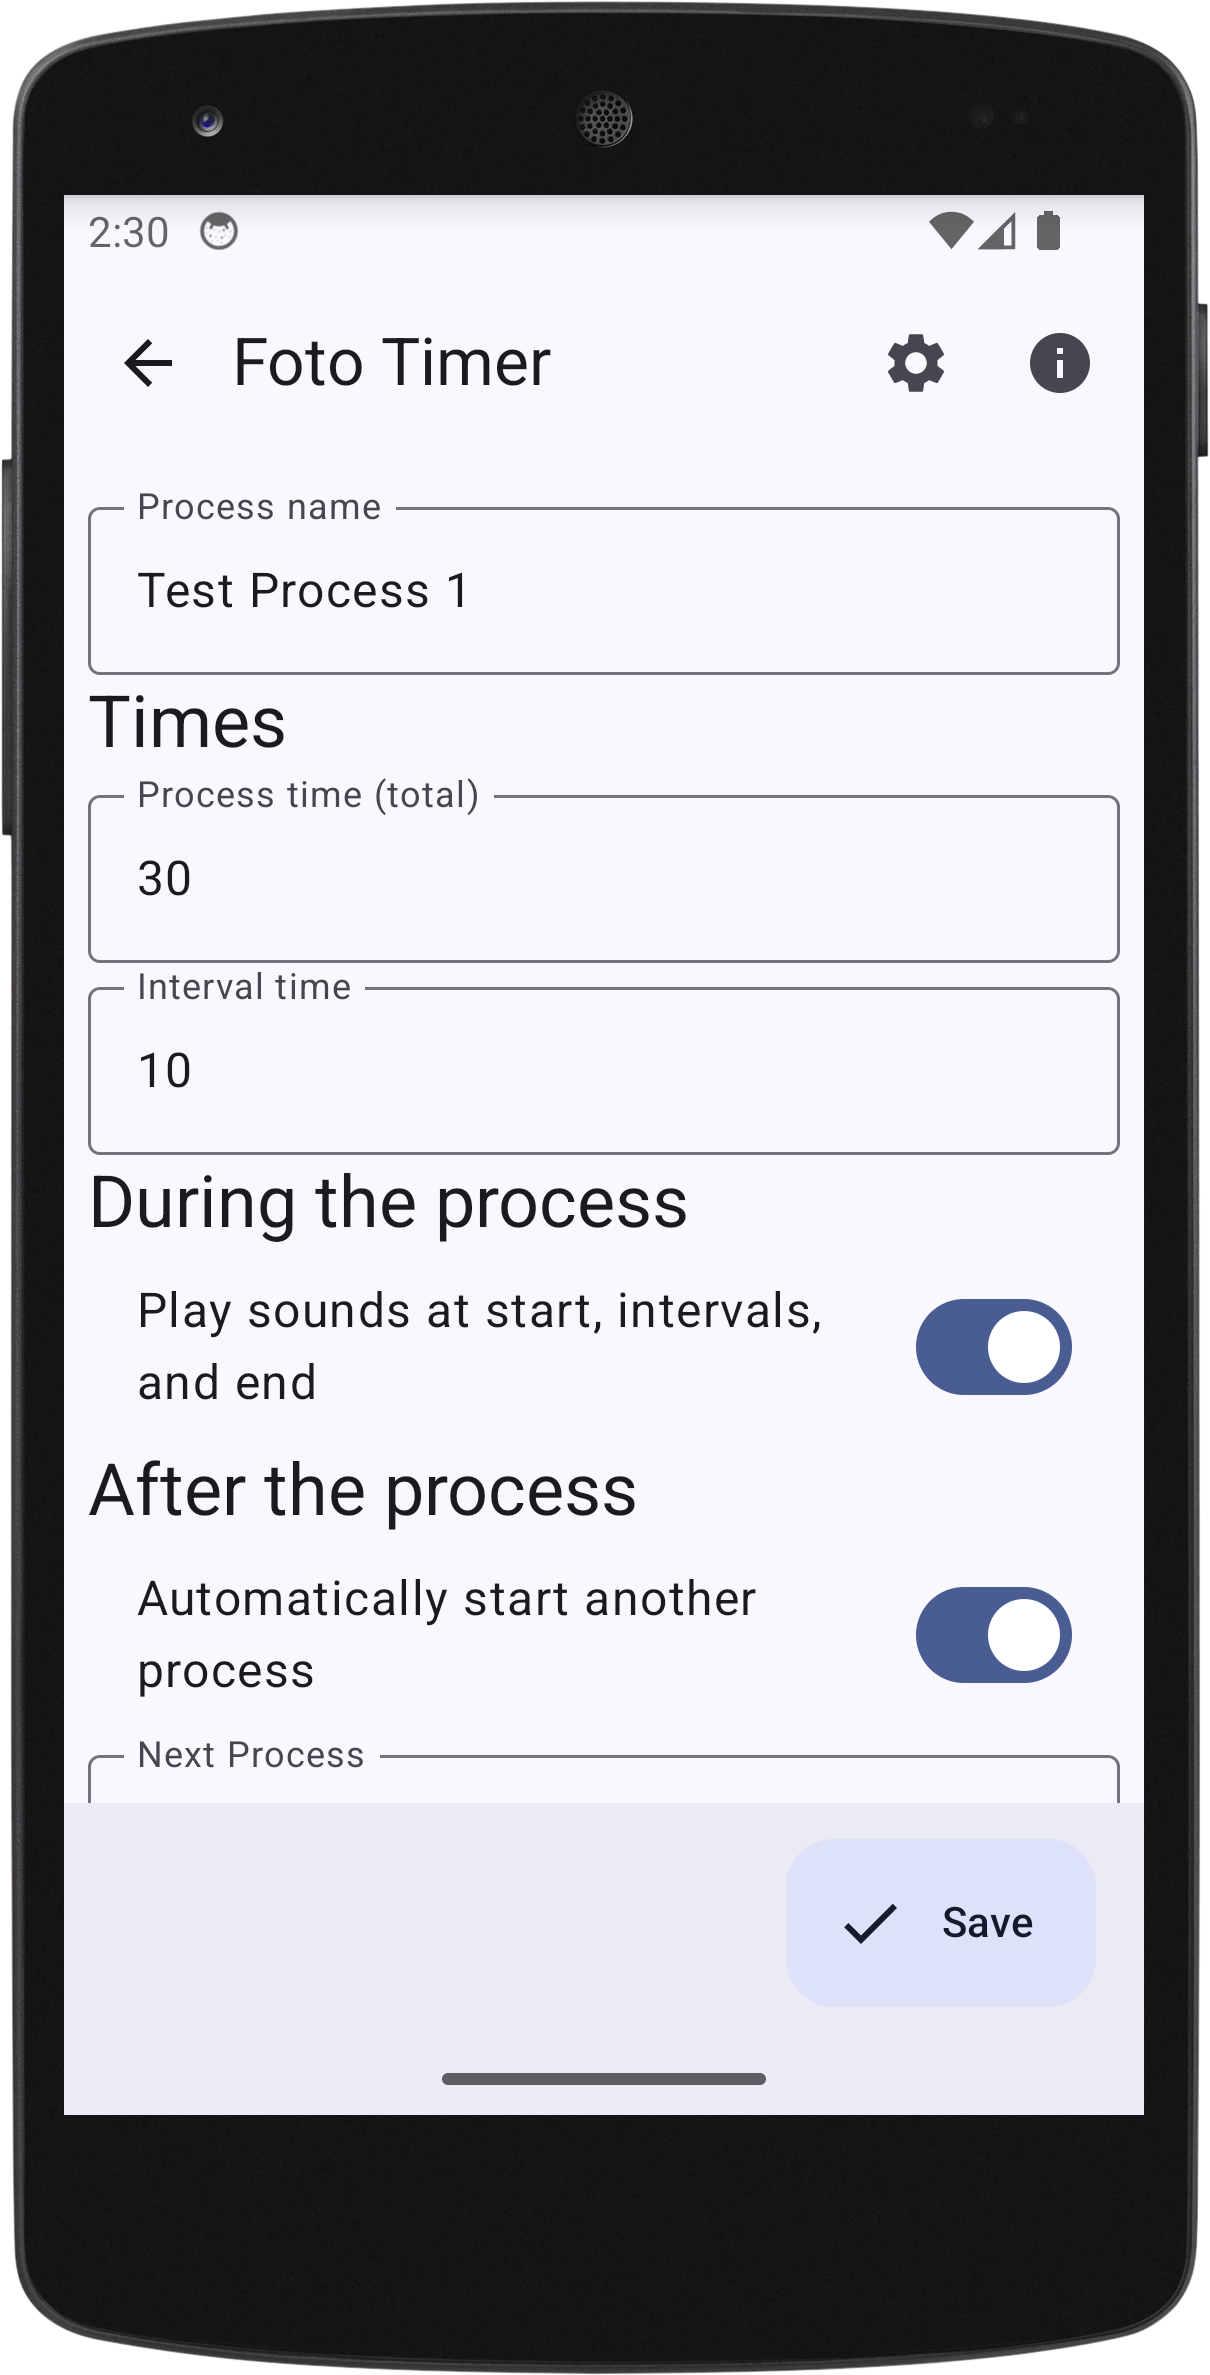
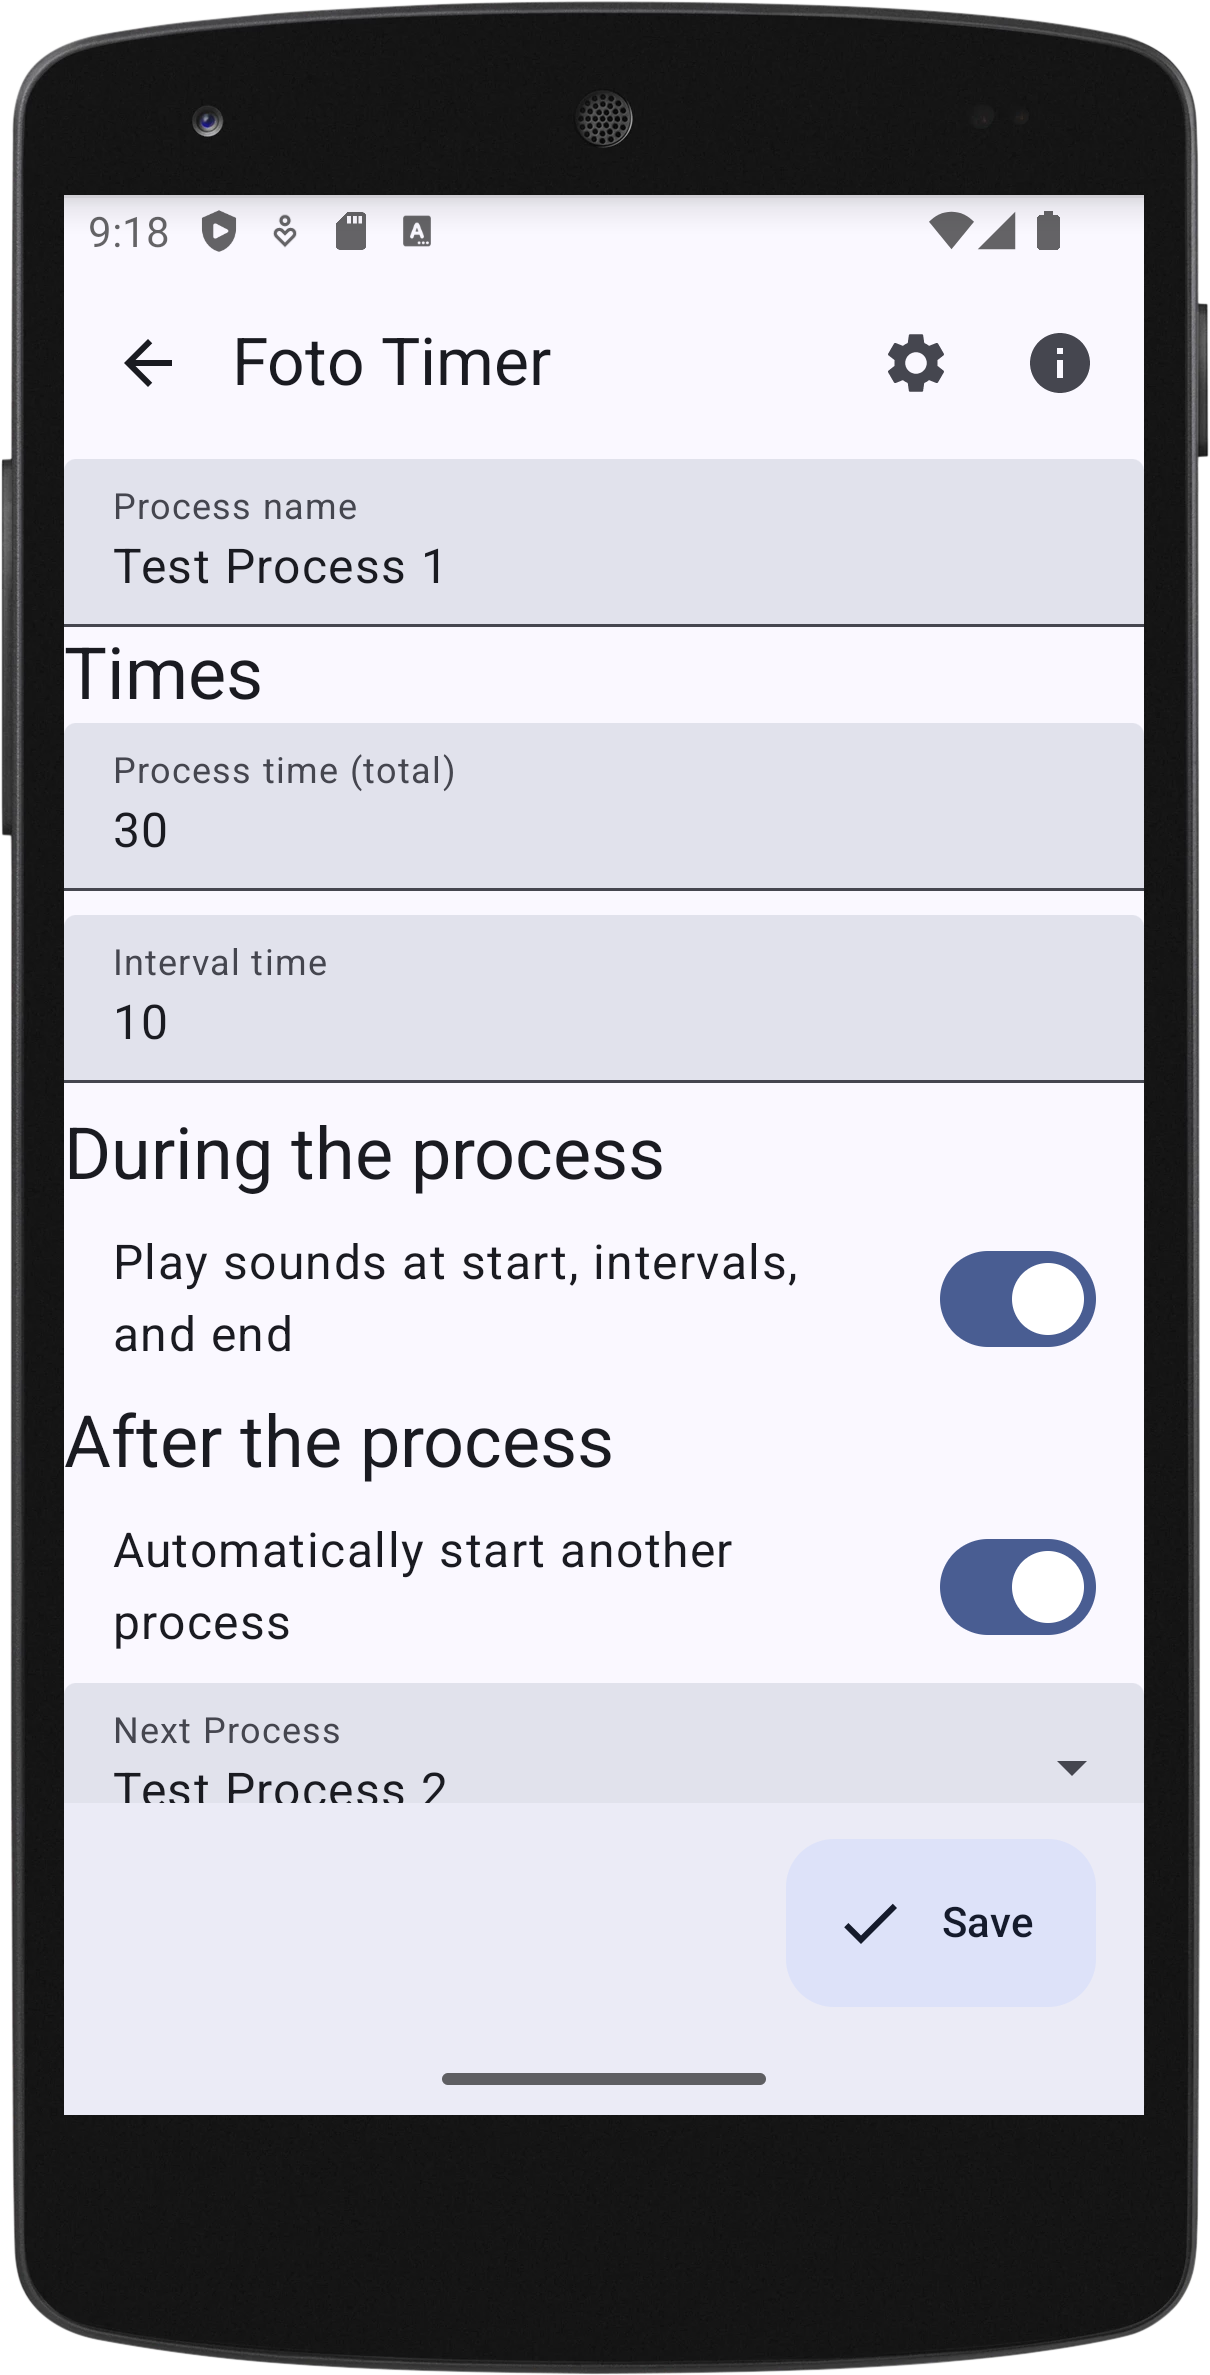
in which our hero makes the UI visually more appealing

diff --git a/app/src/main/java/com/exner/tools/fototimer/ui/destinations/ProcessEdit.kt b/app/src/main/java/com/exner/tools/fototimer/ui/destinations/ProcessEdit.kt
@@ -12,7 +12,6 @@ import androidx.compose.foundation.layout.imePadding
 import androidx.compose.foundation.layout.padding
 import androidx.compose.foundation.layout.systemBars
 import androidx.compose.foundation.layout.windowInsetsBottomHeight
-import androidx.compose.foundation.layout.wrapContentHeight
 import androidx.compose.foundation.rememberScrollState
 import androidx.compose.foundation.verticalScroll
 import androidx.compose.material.icons.Icons
@@ -26,9 +25,9 @@ import androidx.compose.material3.ExposedDropdownMenuDefaults
 import androidx.compose.material3.ExtendedFloatingActionButton
 import androidx.compose.material3.FloatingActionButtonDefaults
 import androidx.compose.material3.Icon
-import androidx.compose.material3.OutlinedTextField
 import androidx.compose.material3.Scaffold
 import androidx.compose.material3.Text
+import androidx.compose.material3.TextField
 import androidx.compose.runtime.Composable
 import androidx.compose.runtime.getValue
 import androidx.compose.runtime.livedata.observeAsState
@@ -36,7 +35,6 @@ import androidx.compose.runtime.mutableStateOf
 import androidx.compose.runtime.remember
 import androidx.compose.runtime.setValue
 import androidx.compose.ui.Modifier
-import androidx.compose.ui.unit.dp
 import androidx.hilt.navigation.compose.hiltViewModel
 import androidx.lifecycle.compose.collectAsStateWithLifecycle
 import com.exner.tools.fototimer.ui.HeaderText
@@ -96,7 +94,7 @@ fun ProcessEdit(
             ) {
                 // top - fields
                 Row(modifier = Modifier.fillMaxWidth()) {
-                    OutlinedTextField(
+                    TextField(
                         value = name ?: "Name",
                         onValueChange = {
                             processEditViewModel.updateName(it)
@@ -223,7 +221,7 @@ fun ProcessEdit(
                         ExposedDropdownMenuBox(
                             expanded = expanded,
                             onExpandedChange = { expanded = !expanded }) {
-                            OutlinedTextField(
+                            TextField(
                                 // The `menuAnchor` modifier must be passed to the text field for correctness.
                                 modifier = Modifier
                                     .menuAnchor()

diff --git a/app/src/main/java/com/exner/tools/fototimer/ui/destinations/Settings.kt b/app/src/main/java/com/exner/tools/fototimer/ui/destinations/Settings.kt
@@ -17,10 +17,10 @@ import androidx.compose.foundation.rememberScrollState
 import androidx.compose.foundation.text.KeyboardOptions
 import androidx.compose.foundation.verticalScroll
 import androidx.compose.material3.MaterialTheme
-import androidx.compose.material3.OutlinedTextField
 import androidx.compose.material3.Tab
 import androidx.compose.material3.TabRow
 import androidx.compose.material3.Text
+import androidx.compose.material3.TextField
 import androidx.compose.material3.windowsizeclass.WindowSizeClass
 import androidx.compose.material3.windowsizeclass.WindowWidthSizeClass
 import androidx.compose.runtime.Composable
@@ -288,7 +288,7 @@ fun Settings(
 
             item {
                 AnimatedVisibility(visible = expertMode) {
-                    OutlinedTextField(
+                    TextField(
                         value = numberOfPreBeeps.toString(),
                         label = { Text(text = "Pre-beeps (small beeps before the interval)") },
                         modifier = Modifier.fillMaxWidth(),
@@ -346,10 +346,12 @@ private fun ExpertSettingsSound(
             .fillMaxWidth()
             .imePadding()
     ) {
-        OutlinedTextField(
+        TextField(
             value = preBeeps.toString(),
             label = { Text(text = "Pre-beeps (small beeps before the interval)") },
-            modifier = Modifier.fillMaxWidth(),
+            modifier = Modifier
+                .fillMaxWidth()
+                .padding(0.dp, 0.dp, 0.dp, 8.dp),
             singleLine = true,
             keyboardOptions = KeyboardOptions(keyboardType = KeyboardType.Number),
             onValueChange = {

diff --git a/app/src/main/java/com/exner/tools/fototimer/ui/CustomComponents.kt b/app/src/main/java/com/exner/tools/fototimer/ui/CustomComponents.kt
@@ -16,10 +16,10 @@ import androidx.compose.foundation.text.KeyboardOptions
 import androidx.compose.material3.ListItem
 import androidx.compose.material3.LocalTextStyle
 import androidx.compose.material3.MaterialTheme
-import androidx.compose.material3.OutlinedTextField
 import androidx.compose.material3.Surface
 import androidx.compose.material3.Switch
 import androidx.compose.material3.Text
+import androidx.compose.material3.TextField
 import androidx.compose.runtime.Composable
 import androidx.compose.runtime.DisposableEffect
 import androidx.compose.runtime.getValue
@@ -120,10 +120,12 @@ fun TextFieldForTimes(
     placeholder: @Composable (() -> Unit)? = null,
 ) {
     var text by remember(value) { mutableStateOf(value.toString()) }
-    OutlinedTextField(
+    TextField(
         value = text,
         label = label,
-        modifier = Modifier.fillMaxWidth(),
+        modifier = Modifier
+            .fillMaxWidth()
+            .padding(0.dp, 0.dp, 0.dp, 8.dp),
         singleLine = true,
         keyboardOptions = KeyboardOptions(keyboardType = KeyboardType.Number),
         onValueChange = { raw ->
